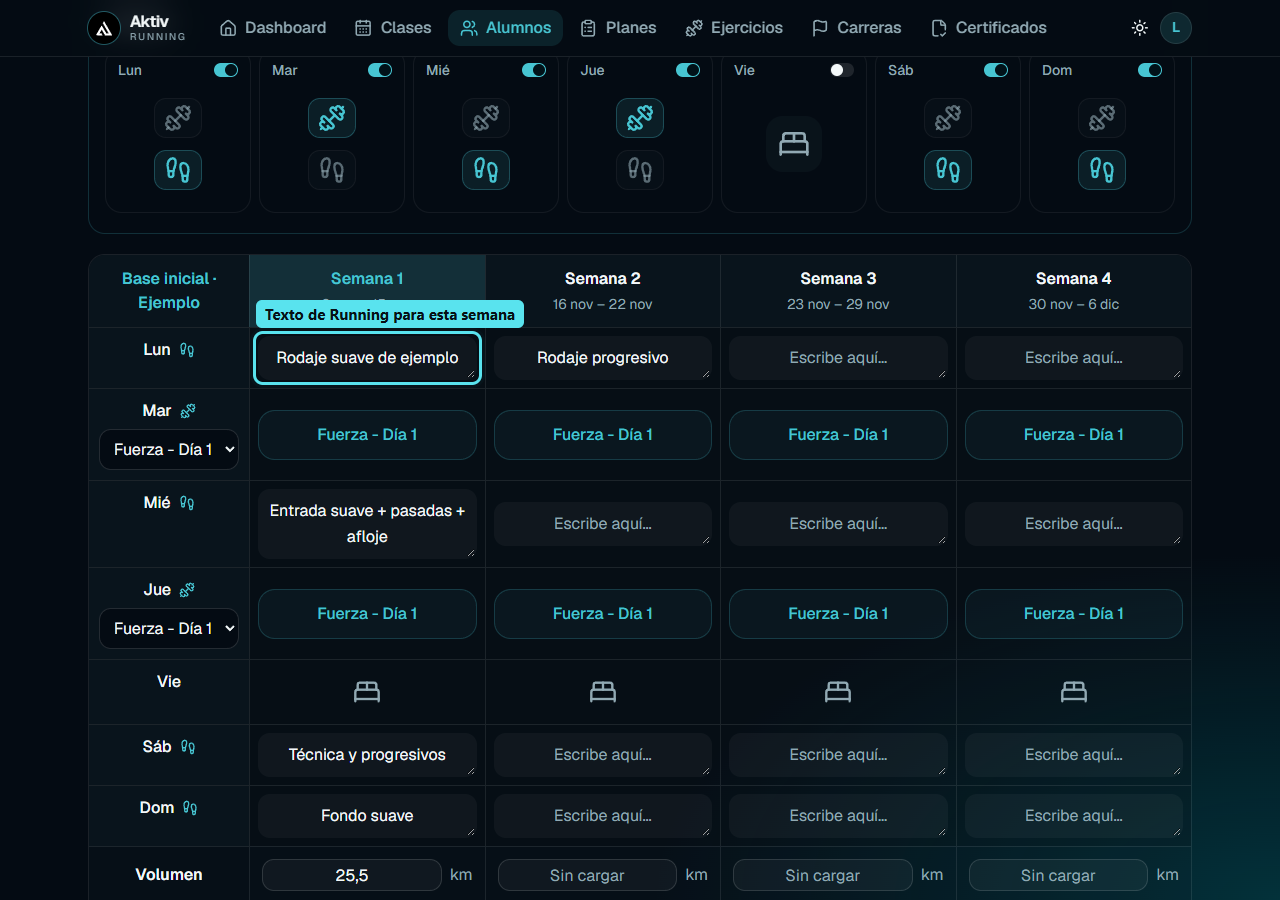
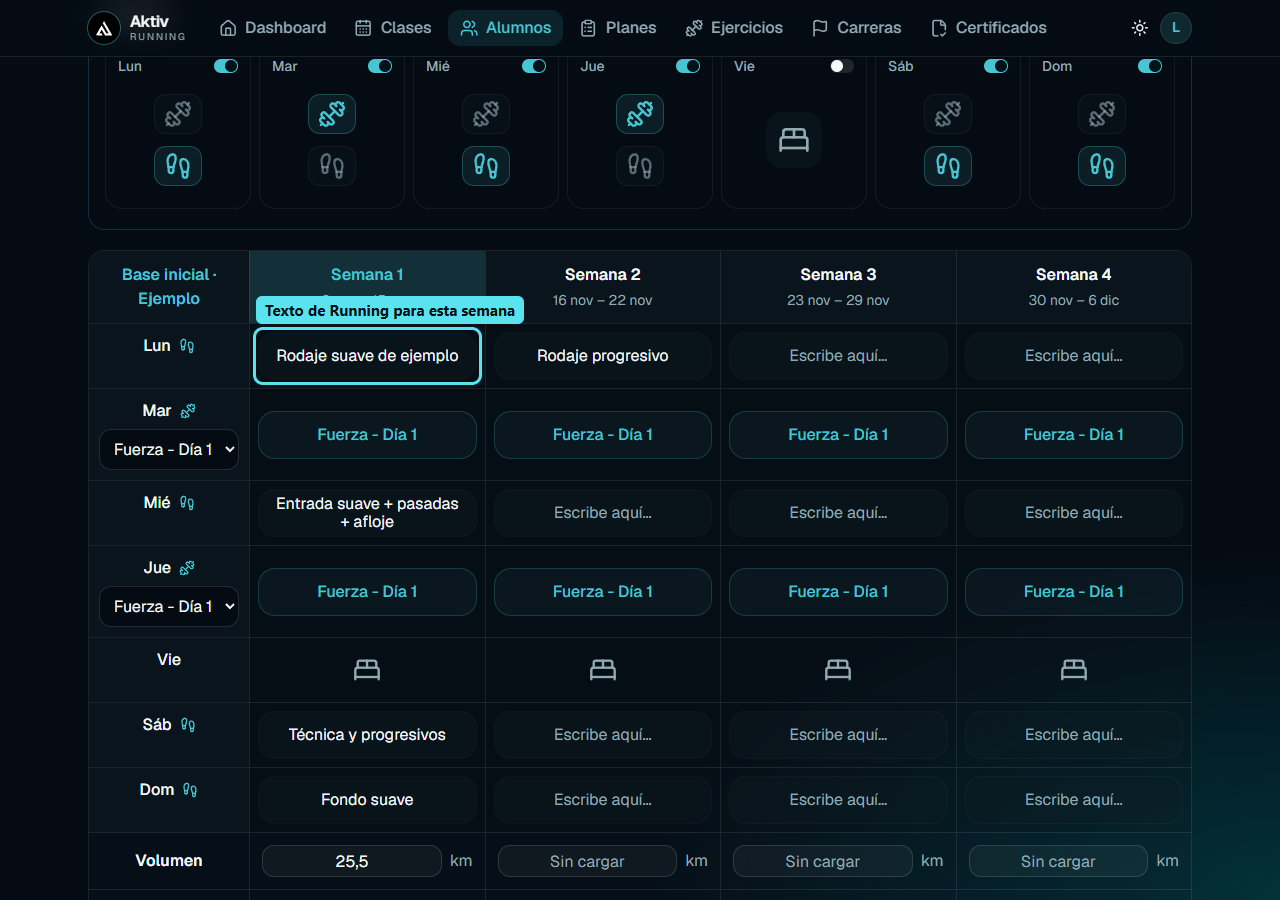
Mostrar Running completo en un modal y limitar la altura de sus celdas

diff --git a/aktiv-client/src/components/running-semanal.tsx b/aktiv-client/src/components/running-semanal.tsx
@@ -12,7 +12,7 @@ import {hoyISO,formatFecha} from "@/lib/format";
 import {toast} from "sonner";
 type PlanRunning={id:string;semanas:number;inicio?:string;nombre?:string;running?:Running};
 const nombreCampo=(campo:CampoRunning)=>campo==="volumen"?"Volumen semanal":campo==="sugerencias"?"Sugerencias":DIAS_PLAN[(CAMPOS_RUNNING as readonly string[]).indexOf(campo)];
-function Celda({planId,semana,campo,valor,tipoValor,soloTexto=false,onGuardado,onPendiente}:{planId:string;semana:number;campo:CampoRunning;valor:string;tipoValor?:TipoDiaRunning;soloTexto?:boolean;onGuardado:(s:number,c:CampoRunning,t:string)=>void;onPendiente:(id:string,pendiente:boolean)=>void}){
+function Celda({planId,semana,campo,valor,tipoValor,soloTexto=false,detalle=false,onGuardado,onPendiente}:{planId:string;semana:number;campo:CampoRunning;valor:string;tipoValor?:TipoDiaRunning;soloTexto?:boolean;detalle?:boolean;onGuardado:(s:number,c:CampoRunning,t:string)=>void;onPendiente:(id:string,pendiente:boolean)=>void}){
  const {api}=usePlanEditor(); const [texto,setTexto]=useState(valor);const [guardado,setGuardado]=useState(valor);const [ocupado,setOcupado]=useState(false);const [error,setError]=useState("");
  const esDia=!soloTexto&&(DIAS_RUNNING as readonly string[]).includes(campo);
  const [tipo,setTipo]=useState<TipoDiaRunning>(tipoValor??"Running");const [tipoGuardado,setTipoGuardado]=useState(tipoValor??"Running");
@@ -32,7 +32,7 @@ function Celda({planId,semana,campo,valor,tipoValor,soloTexto=false,onGuardado,o
   },500);return()=>clearTimeout(timer);
  },[texto,guardado,sucio,ocupado,error,semana,campo,planId,api,onGuardado,tipo,tipoGuardado,esDia]);
  const label=nombreCampo(campo)+", semana "+semana;
- return <div className="min-w-0 space-y-2">{esDia&&<select aria-label={"Actividad de "+label} value={tipo} onChange={e=>{setTipo(e.target.value as TipoDiaRunning);setError("");}} className="w-full min-w-0 rounded-md border bg-background px-2 py-1.5 text-sm">{TIPOS_DIA_RUNNING.map(t=><option key={t}>{t}</option>)}</select>}{esDia&&tipo!=="Running"?<p className="rounded-md bg-muted/30 px-3 py-4 text-sm font-semibold text-muted-foreground">{tipo}<span className="mt-1 block text-xs font-normal">Sin running</span></p>:campo==="volumen"?<div className="flex items-center gap-2"><Input aria-label={label} inputMode="decimal" maxLength={7} value={texto} placeholder="Sin cargar" onChange={e=>{setTexto(e.target.value);setError("");}} /><span className="text-sm text-muted-foreground">km</span></div>:<Textarea rows={1} aria-label={label} value={texto} maxLength={4000} placeholder={campo==="sugerencias"?"Indicaciones para esta semana…":soloTexto?"Escribe aquí…":"Sin cargar"} onChange={e=>{setTexto(e.target.value);setError("");}} className="min-h-10 field-sizing-content resize-y border-transparent bg-transparent text-base leading-relaxed shadow-none focus-visible:border-primary" />}{error?<div role="alert" className="space-y-1 text-sm text-destructive"><p>{error}</p><Button variant="outline" size="sm" onClick={()=>setError("")}>Reintentar guardado</Button></div>:(ocupado||sucio)?<span role="status" className="block text-xs text-muted-foreground">{ocupado?"Guardando…":"Cambios pendientes"}</span>:null}</div>;
+ return <div className="min-w-0 space-y-2">{esDia&&<select aria-label={"Actividad de "+label} value={tipo} onChange={e=>{setTipo(e.target.value as TipoDiaRunning);setError("");}} className="w-full min-w-0 rounded-md border bg-background px-2 py-1.5 text-sm">{TIPOS_DIA_RUNNING.map(t=><option key={t}>{t}</option>)}</select>}{esDia&&tipo!=="Running"?<p className="rounded-md bg-muted/30 px-3 py-4 text-sm font-semibold text-muted-foreground">{tipo}<span className="mt-1 block text-xs font-normal">Sin running</span></p>:campo==="volumen"?<div className="flex items-center gap-2"><Input aria-label={label} inputMode="decimal" maxLength={7} value={texto} placeholder="Sin cargar" onChange={e=>{setTexto(e.target.value);setError("");}} /><span className="text-sm text-muted-foreground">km</span></div>:<Textarea rows={1} autoFocus={detalle} aria-label={label} value={texto} maxLength={4000} placeholder={campo==="sugerencias"?"Indicaciones para esta semana…":soloTexto?"Escribe aquí…":"Sin cargar"} onChange={e=>{setTexto(e.target.value);setError("");}} className={detalle?"min-h-56 max-h-[60dvh] field-sizing-content overflow-y-auto resize-y text-base leading-relaxed":"min-h-10 field-sizing-content resize-y border-transparent bg-transparent text-base leading-relaxed shadow-none focus-visible:border-primary"} />}{error?<div role="alert" className="space-y-1 text-sm text-destructive"><p>{error}</p><Button variant="outline" size="sm" onClick={()=>setError("")}>Reintentar guardado</Button></div>:(ocupado||sucio)?<span role="status" className="block text-xs text-muted-foreground">{ocupado?"Guardando…":"Cambios pendientes"}</span>:null}</div>;
 }
 export function RunningSemanal({plan,editable=false,semanaInicial,onDatos}:{plan:PlanRunning;editable?:boolean;semanaInicial?:number;onDatos?:(datos:Running)=>void}){
  const {api}=usePlanEditor();

diff --git a/aktiv-client/src/components/planificacion-unificada.tsx b/aktiv-client/src/components/planificacion-unificada.tsx
@@ -6,6 +6,7 @@ import { toast } from "sonner";
 import { actividadesDelDia, actualizarDistribucion, asignarDiaApi, DIAS_PLAN, DIAS_RUNNING, semanaDelPlan, type ActividadDia, type Distribucion, type PlanMensual, type Running, type SesionEntrenamiento } from "@aktiv/contrato";
 import { Button } from "./ui/button";
 import { Switch } from "./ui/switch";
+import { RunningDetalle } from "./running-detalle";
 import { CeldaRunning } from "./running-semanal";
 import { useActividadesPlan } from "./actividades-plan";
 import { usePlanEditor } from "./plan-editor-context";
@@ -89,7 +90,7 @@ export function PlanificacionUnificada({plan,editable,renderRutina}:Props) {
    <div className="hidden grid-cols-[160px_repeat(var(--semanas),minmax(0,1fr))] bg-card md:grid"><div className="p-3 text-sm font-semibold text-primary">{plan.nombre}</div>{columnas.map(s=><div key={s} className={`border-l p-3 text-center ${actual===s?"bg-primary/15 text-primary":""}`}><p className="text-sm font-semibold">Semana {s}</p>{plan.inicio&&<p className="mt-1 text-xs text-muted-foreground">{formatFecha(new Date(Date.parse(plan.inicio+"T12:00:00Z")+(s-1)*7*86400000).toISOString().slice(0,10))} – {formatFecha(new Date(Date.parse(plan.inicio+"T12:00:00Z")+((s-1)*7+6)*86400000).toISOString().slice(0,10))}</p>}</div>)}</div>
    {DIAS_PLAN.map((dia,i)=><div key={dia} className="border-t bg-card/30 md:grid md:grid-cols-[160px_repeat(var(--semanas),minmax(0,1fr))]"><div className="space-y-1.5 bg-card p-2.5"><h4 className="flex items-center justify-center gap-2 text-sm font-medium"><span>{dia.slice(0,3)}</span>{actividadesDelDia(datos,i+1,semana).filter(a=>a.tipo!=="Descanso").map((a,n)=>{const Icono=icono(a.tipo);return <Icono key={n} aria-label={tipoVisual(a.tipo)} className="size-4 text-primary" />;})}</h4>{editable&&(vista.base?.[i+1]??actividadesDelDia({...plan,distribucion:{}},i+1,1)).some(a=>!["Running","Descanso"].includes(a.tipo))&&<Asignador soloRutina disabled={Boolean(pendientes["actividad:"+dia])} valor={vista.base?.[i+1]??actividadesDelDia({...plan,distribucion:{}},i+1,1)} tipos={tipos} sesiones={plan.sesiones} label={dia} onPendiente={onPendiente} onGuardar={guardarDias[i]} onCambiar={anticiparDias[i]} />}</div>{columnas.map(s=>{const a=actividadesGrilla(i+1,s);return <div key={s} className={(s===semana?"block":"hidden md:block")+" min-w-0 content-center space-y-2 p-2 text-center md:border-l"}>
     {a.length?a.map((v,n)=>{const sesion=plan.sesiones.find(r=>r.id===v.sesionId);return <div key={v.sesionId??v.tipo+n} className="min-w-0">
-     {v.tipo==="Running"&&!sesion?<div className="space-y-2">{editable?<CeldaRunning key={`${version}:${s}:${i}`} soloTexto planId={plan.id} semana={s} campo={DIAS_RUNNING[i]} valor={running[s]?.[DIAS_RUNNING[i]]??""} onGuardado={alGuardarRunning} onPendiente={onPendiente} />:<p className="whitespace-pre-wrap break-words text-sm leading-6">{running[s]?.[DIAS_RUNNING[i]]||"Sin cargar"}</p>}</div>:sesion?<Button className="h-auto min-h-12 w-full min-w-0 justify-center whitespace-normal rounded-xl border-primary/25 bg-primary/5 p-3 text-center hover:bg-primary/10" aria-label={`Abrir ${nombreRutina(plan,sesion)}, ${dia}, semana ${s}`} onClick={()=>setRutina({id:sesion.id,semana:s})}><span className="block min-w-0 break-words text-sm font-medium">{nombreVisible(sesion.nombre)||nombreRutina(plan,sesion)}</span></Button>:<div className="flex min-h-12 items-center justify-center text-muted-foreground">{v.tipo==="Descanso"?<BedDouble aria-label="Descanso" className="size-7" />:<span className="text-sm">Sin asignar</span>}</div>}
+     {v.tipo==="Running"&&!sesion?<RunningDetalle planId={plan.id} dia={i+1} semana={s} valor={running[s]?.[DIAS_RUNNING[i]]??""} editable={editable} onGuardado={alGuardarRunning} onPendiente={onPendiente} />:sesion?<Button className="h-12 max-h-12 w-full min-w-0 justify-center overflow-hidden whitespace-normal rounded-xl border-primary/25 bg-primary/5 px-3 py-1 text-center hover:bg-primary/10" aria-label={`Abrir ${nombreRutina(plan,sesion)}, ${dia}, semana ${s}`} onClick={()=>setRutina({id:sesion.id,semana:s})}><span className="line-clamp-2 min-w-0 break-words text-sm font-medium leading-[18px]">{nombreVisible(sesion.nombre)||nombreRutina(plan,sesion)}</span></Button>:<div className="flex min-h-12 items-center justify-center text-muted-foreground">{v.tipo==="Descanso"?<BedDouble aria-label="Descanso" className="size-7" />:<span className="text-sm">Sin asignar</span>}</div>}
     </div>;}):<p className="py-2 text-sm text-muted-foreground">Sin asignar</p>}
 
    </div>;})}</div>)}

diff --git a/aktiv-client/src/lib/manual-detallado.ts b/aktiv-client/src/lib/manual-detallado.ts
@@ -12,7 +12,7 @@ export const guias: GuiaManual[] = [
     p("Creá los bloques", "En el modal pulsá + Nuevo bloque, elegí Movilidad, Activación o Fuerza en Tipo de actividad y pulsá Crear. El + de cada bloque agrega un ejercicio. Buscalo o crealo desde su campo.", "planificacion-bloque"),
     p("Completá la semana", "El modal abre la semana actual; los botones Semana 1, Semana 2, etcétera permiten consultar las demás. Cargá series, repeticiones y descanso. Los ejercicios nuevos comienzan con 3×8 y 60 s. Podés escribir indicaciones libres en Repeticiones. Arrastrá el asa para mover ejercicios entre bloques; con las flechas del teclado podés ordenarlos. Indicaciones generales es opcional.", "planificacion-modal-profe"),
     p("Vinculá la rutina", "En la primera columna de la grilla, debajo del día con Fuerza, abrí el selector y elegí el nombre del día creado. La rutina aparece en las semanas como un botón. Pulsalo para abrir el modal. Una misma rutina se puede asignar a varios días.", "planificacion-rutina"),
-    p("Cargá Running", "En los días con pies escribí el entrenamiento en la celda de cada semana. Volumen admite los kilómetros totales manuales y Sugerencias texto libre. La app no calcula distancias a partir de abreviaturas.", "planificacion-grilla"),
+    p("Cargá Running", "En los días con pies pulsá la celda de la semana: abre el detalle con el día y la semana elegidos. Allí escribí o leé el entrenamiento completo. La vista previa tiene altura fija y recorta el texto largo. Volumen admite los kilómetros totales manuales y Sugerencias texto libre. La app no calcula distancias a partir de abreviaturas.", "planificacion-grilla"),
     p("Cerrá el modal", "Los cambios se guardan automáticamente. Usá la X o Escape para cerrar; si hay un guardado pendiente o fallido, el modal conserva el borrador. Ante un error pulsá Reintentar guardado.", "planificacion-modal-profe"),
     p("Revisá la vista del alumno", "El alumno abre el mismo día en un modal de lectura. Puede marcarlo como realizado opcionalmente; si no lo hace no se muestra una advertencia ni se bloquea el plan.", "planificacion-modal-alumno"),
     p("Desde el celular", "La grilla muestra una semana por vez. Usá el selector y las flechas para avanzar. En escritorio aparecen hasta cuatro semanas con sus rangos de fechas; los planes más largos se recorren por grupos.", "planificacion-movil"),
@@ -21,7 +21,7 @@ export const guias: GuiaManual[] = [
   g("running", "Planes", "Cargar Running en la planificación unificada", "Texto libre, volumen y sugerencias junto a los días de fuerza.", "/alumnos", [
     p("Abrí el plan", "Entrá a Alumnos, abrí la ficha y elegí el plan desde Ver más planes si corresponde. La grilla está en Resumen.", "planificacion-ficha"),
     p("Marcá los días de Running", "Encendé el switch del día y pulsá el icono de pies. Podés combinar Running y Fuerza el mismo día. Para descanso apagá el switch.", "planificacion-actividades"),
-    p("Escribí cada sesión", "Buscá el cruce del día con la semana. Cargá entrada en calor, pasadas, ritmos, pausas y afloje en el campo de texto. Un campo vacío no significa descanso.", "planificacion-grilla"),
+    p("Escribí cada sesión", "Buscá el cruce del día con la semana y pulsá la celda. Se abre un modal con ese día y esa semana. Cargá entrada en calor, pasadas, ritmos, pausas y afloje en el campo grande; conserva los saltos de línea. La vista previa queda a la altura del botón de Fuerza. Un campo vacío muestra Escribe aquí… y no significa descanso.", "planificacion-running-detalle"),
     p("Completá el resumen semanal", "Volumen permite ingresar los kilómetros totales y Sugerencias las indicaciones de esa semana. Ambos campos son manuales.", "planificacion-grilla"),
     p("Revisá el guardado", "Los cambios se guardan automáticamente. Si falla el pedido, el texto permanece y aparece Reintentar guardado. Cambiar una actividad no borra el texto de Running anterior.", "planificacion-grilla"),
     p("Consultá otras semanas", "En escritorio se ven hasta cuatro semanas juntas; en celular elegí la semana con el selector y las flechas. El encabezado resaltado identifica la semana actual.", "planificacion-movil"),

diff --git a/aktiv-client/src/components/running-detalle.tsx b/aktiv-client/src/components/running-detalle.tsx
@@ -1,0 +1,26 @@
+"use client";
+
+import { useCallback, useState } from "react";
+import { DIAS_PLAN, DIAS_RUNNING } from "@aktiv/contrato";
+import { Button } from "./ui/button";
+import { Dialog, DialogContent, DialogDescription, DialogHeader, DialogTitle } from "./ui/dialog";
+import { CeldaRunning } from "./running-semanal";
+
+type Props = {
+  planId: string; dia: number; semana: number; valor: string; editable: boolean;
+  onGuardado: Parameters<typeof CeldaRunning>[0]["onGuardado"];
+  onPendiente: (id: string, pendiente: boolean) => void;
+};
+
+/** La vista previa nunca crece; el detalle conserva el texto y los saltos de línea. */
+export function RunningDetalle({planId,dia,semana,valor,editable,onGuardado,onPendiente}:Props) {
+  const [abierto,setAbierto]=useState(false),[pendiente,setPendiente]=useState(false);
+  const alPendiente=useCallback((id:string,v:boolean)=>{setPendiente(v);onPendiente(id,v);},[onPendiente]);
+  const titulo=`${DIAS_PLAN[dia-1]} · Semana ${semana}`;
+  return <>
+    <Button type="button" variant="ghost" aria-label={`Abrir Running, ${DIAS_PLAN[dia-1]}, semana ${semana}`} className="h-12 max-h-12 w-full min-w-0 overflow-hidden rounded-xl border border-border/40 bg-muted/30 px-3 py-1 text-center font-normal" onClick={()=>setAbierto(true)}><span className="line-clamp-2 w-full whitespace-pre-wrap break-words text-sm leading-[18px] [overflow-wrap:anywhere]">{valor||<span className="text-muted-foreground">{editable?"Escribe aquí…":"Sin cargar"}</span>}</span></Button>
+    <Dialog open={abierto} onOpenChange={v=>{if(v||!pendiente)setAbierto(v);}}><DialogContent className="max-h-[90dvh] overflow-y-auto sm:max-w-2xl"><DialogHeader><DialogTitle>{titulo}</DialogTitle><DialogDescription>Running</DialogDescription></DialogHeader>
+      {editable?<CeldaRunning key={`${dia}:${semana}`} detalle soloTexto planId={planId} semana={semana} campo={DIAS_RUNNING[dia-1]} valor={valor} onGuardado={onGuardado} onPendiente={alPendiente} />:<p className="min-h-32 whitespace-pre-wrap break-words rounded-xl border p-4 text-sm leading-7 [overflow-wrap:anywhere]">{valor||"Sin cargar"}</p>}
+    </DialogContent></Dialog>
+  </>;
+}
